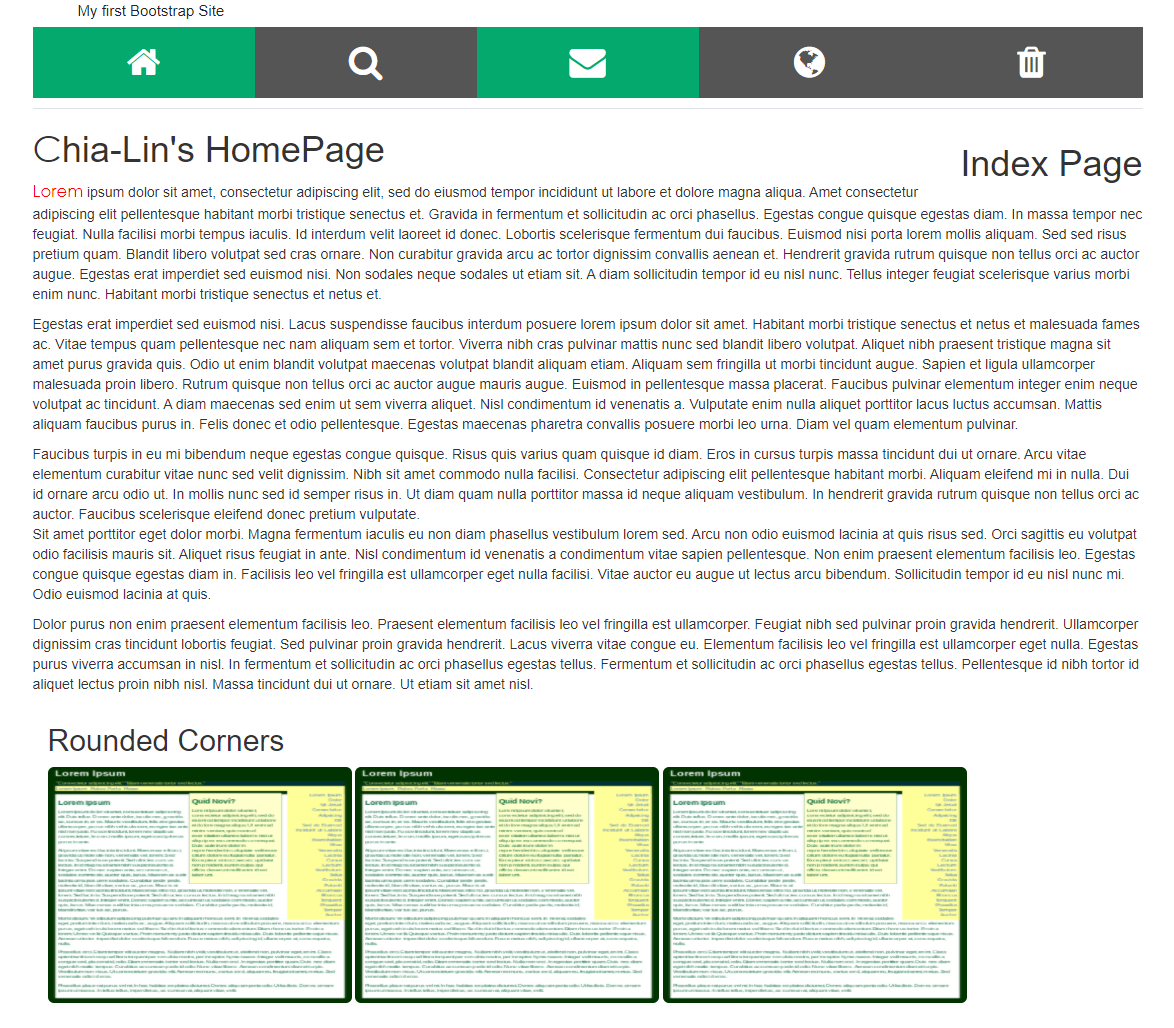
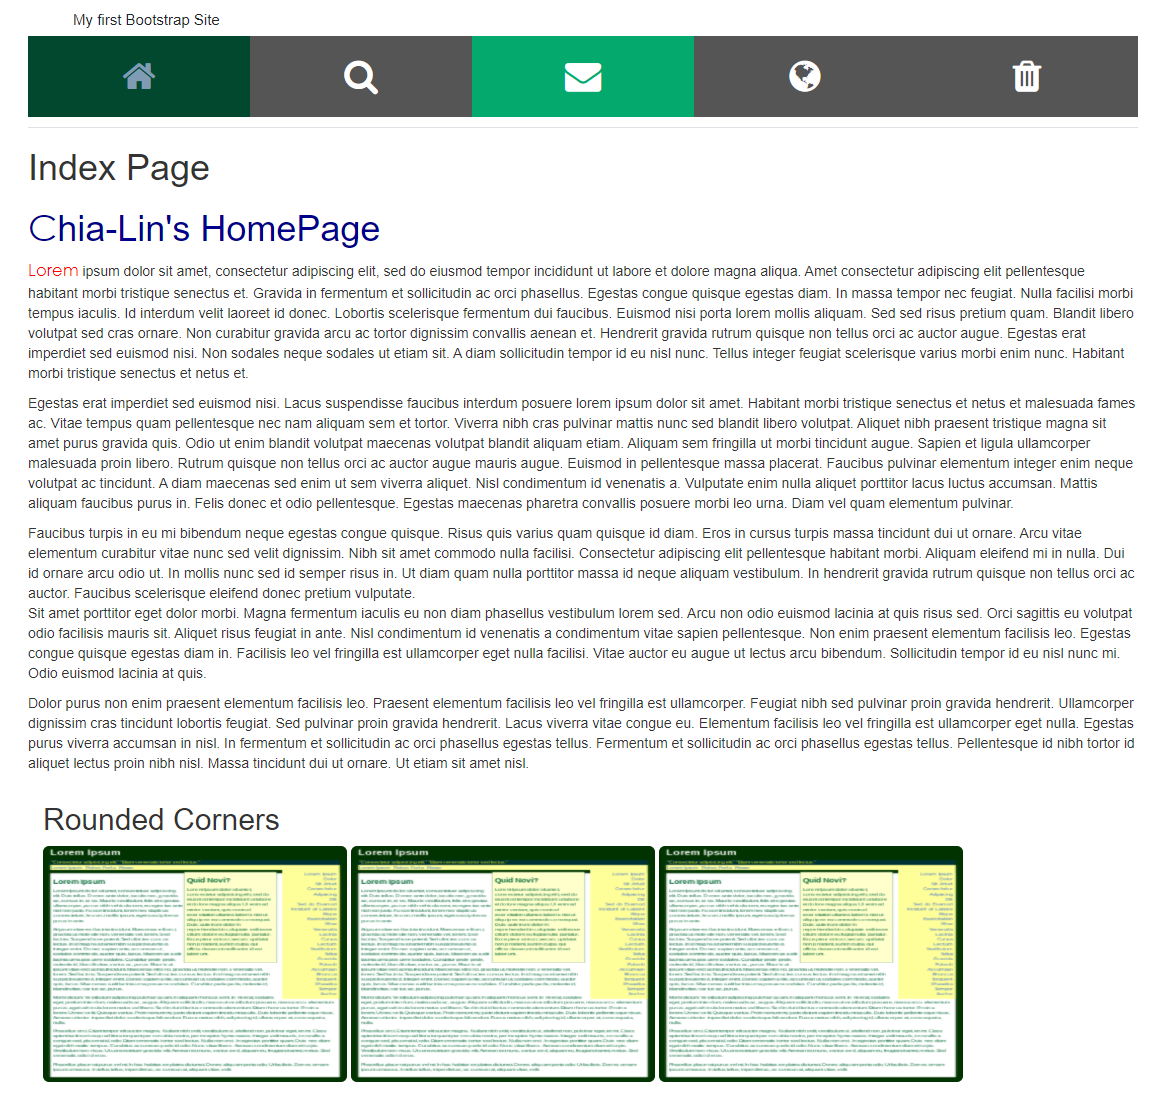
update screenshot of pages

diff --git a/app/templates/index.html b/app/templates/index.html
@@ -45,7 +45,7 @@
                 float: left;
                 width: 20%;
                 text-align: center;
-                padding: 10px 0;
+                padding: 15px 0;
                 transition: all 0.5s ease;
                 color: white;
                 font-size: 36px;
